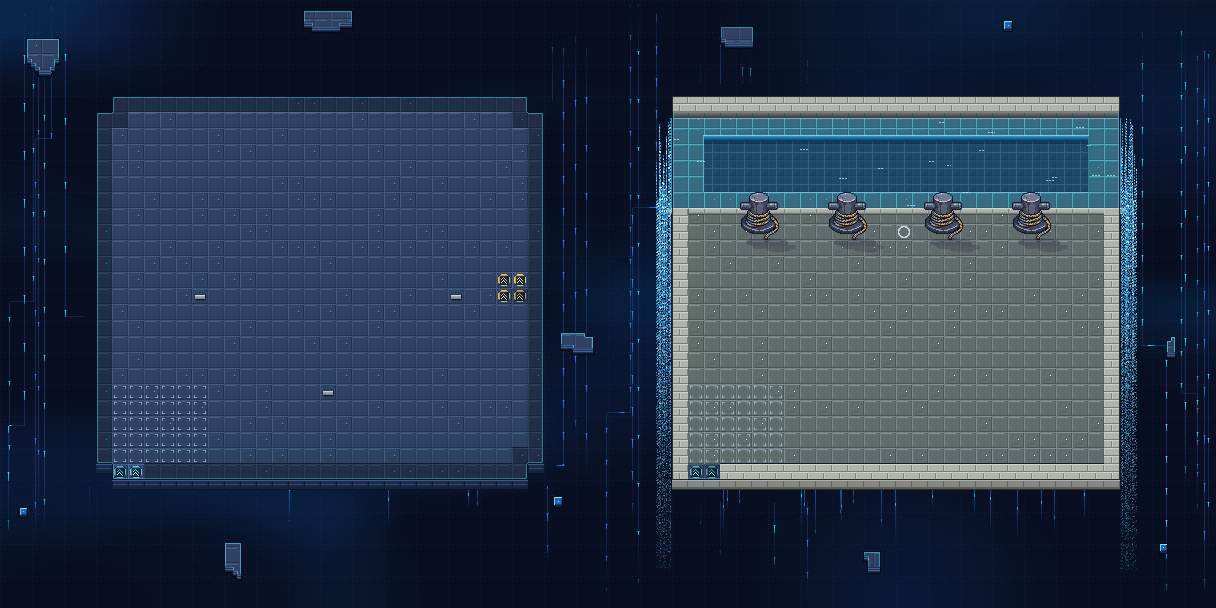
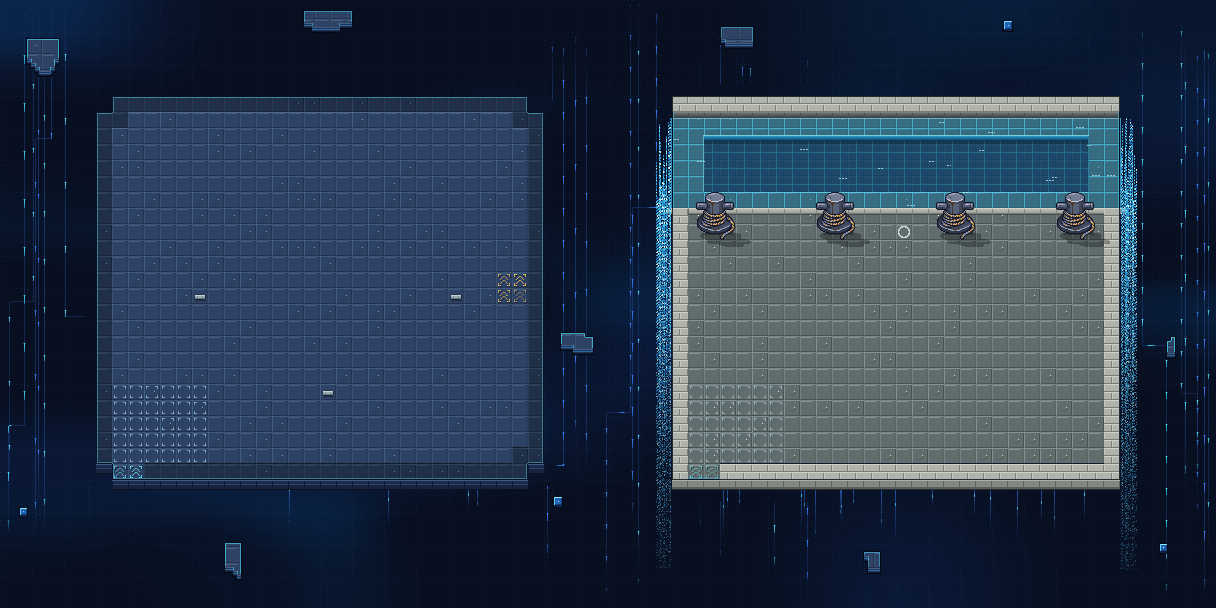
Karte 19: Pfeile im Stil des Sammelplatzes (Eckklammern + Doppel-Chevron auf dem Boden, cyan/gold), Poller weiter und gleichmaessig verteilt, eigener Schatten (Kontaktschatten am Sockel, gestauchte Silhouette nach rechts unten)
Claude-Session: https://claude.ai/code/session_01SaoYHKhnro4LFcPJqjaPsq

diff --git a/tools/karte19_bauen.py b/tools/karte19_bauen.py
@@ -517,6 +517,59 @@ def fall_speier(a, wasser, land, frame):
 FALL_STILE = {}
 
 
+def pfeil_marke(a, tx, ty, farbe, frame, ph):
+    """Pfeilfeld passend zum Aufstellfeld: vier Eckklammern (wie feld_marken) und ein Doppel-Chevron nach Norden,
+    beides direkt auf dem Boden, 1 px dunkler Schlagschatten rechts unten, Leuchten pulsiert."""
+    p = 0.55 + 0.45 * puls(frame, ph)
+    farbe = np.array(farbe, np.float32)
+    X, Y = tx * T, ty * T
+    pix = []
+    for (ex, ey, sx, sy) in ((2, 2, 1, 1), (13, 2, -1, 1), (2, 13, 1, -1), (13, 13, -1, -1)):
+        for d in range(3):
+            pix += [(Y + ey, X + ex + sx * d), (Y + ey + sy * d, X + ex)]
+    for oy in (4, 8):                                           # zwei Chevrons uebereinander
+        for d in range(4):
+            pix += [(Y + oy + d, X + 7 - d), (Y + oy + d, X + 8 + d)]
+    for (yy, xx) in pix:                                        # Schatten zuerst
+        a[yy + 1, xx + 1] = (a[yy + 1, xx + 1] * 0.75).astype(np.uint8)
+    for (yy, xx) in pix:
+        a[yy, xx] = np.clip(a[yy, xx] * (1 - 0.8 * p) + farbe * 0.8 * p, 0, 255).astype(np.uint8)
+
+
+def schatten19(img, objs, cache, boden):
+    """Schatten nach den Regeln: Kontaktschatten direkt am Fuss (folgt der echten Fussform), Schlagschatten = die
+    Silhouette diagonal nach rechts unten gelegt und auf die Haelfte gestaucht; nur auf dem Boden der Fussebene."""
+    a = np.array(img).astype(np.float32)
+    Hp, Wp = boden.shape
+    kontakt = np.zeros((Hp, Wp), bool)
+    wurf = np.zeros((Hp, Wp), bool)
+    for o in objs:
+        m = np.array(cache[o['datei']].getchannel('A')) >= 128
+        zeilen = np.nonzero(m.any(axis=1))[0]
+        breite = m.sum(axis=1)
+        zu = int(max(r for r in zeilen if breite[r] >= 0.45 * breite.max()))   # Unterkante des Sockels (nicht Seilende)
+        for r in zeilen:
+            k = max(0, zu - r)                                    # Hoehe ueber dem Fuss
+            xs = np.nonzero(m[r])[0]
+            ty = o['y'] + zu + int(round(k * 0.30))
+            tx = o['x'] + xs + int(round(k * 0.45)) + 1
+            ok = (tx >= 0) & (tx < Wp) & (0 <= ty < Hp)
+            if 0 <= ty < Hp:
+                wurf[ty, tx[ok]] = True
+        fuss = m[max(0, zu - 2):zu + 1].any(axis=0)
+        xs = np.nonzero(fuss)[0]
+        for dy in (0, 1):
+            Y = o['y'] + zu + dy
+            if 0 <= Y < Hp:
+                kontakt[Y, o['x'] + xs.min() + dy:o['x'] + xs.max() + 2] = True
+    wurf = np.array(Image.fromarray((wurf * 255).astype(np.uint8)).filter(ImageFilter.MaxFilter(3))) > 0
+    wurf &= boden & ~kontakt
+    kontakt &= boden
+    a[wurf, :3] *= 0.72
+    a[kontakt, :3] *= 0.55
+    return Image.fromarray(np.clip(a, 0, 255).astype(np.uint8))
+
+
 def kaikante(a, kai, wasser=None):
     """Kaikante: heller Stein an jeder Wasserseite des Pflasters (6 px breit, Licht zur Wasserseite, Fugen alle
     16 px, Schatten zum Pflaster). Laeuft auch an den Kanaelen entlang (Kanal-Variante)."""
@@ -647,16 +700,14 @@ def bauen(frame=None, speichern=True):
     a = WASSER_STILE[WASSER](a, wasser, frame)
     sch = wasser & (np.roll(ring, 2, 1) | np.roll(ring, 1, 1))     # Westmauer: Schatten aufs Wasser (Licht oben links)
     a[sch] = (a[sch] * 0.75).astype(np.uint8)
-    # Pfeilkacheln
-    pf = k16.kachel('pfeil.png').astype(np.float32)
-    gp = k17.gold_pfeil()
+    # Pfeile im Stil des Sammelplatzes (Nutzerwunsch): keine dunkle Kachel, sondern Eckklammern wie beim
+    # Aufstellfeld plus ein Doppelpfeil direkt auf dem Boden; cyan = Ankunft, gold = weiter. Leuchten nacheinander.
     n = 0
     for y in range(rows):
         for x in range(cols):
             if kl[y, x] in 'zg':
-                q = puls(frame, n * 0.25); n += 1
-                src = pf if kl[y, x] == 'z' else gp
-                a[y * T:(y + 1) * T, x * T:(x + 1) * T] = np.clip(src * (0.9 + 0.25 * q), 0, 255).astype(np.uint8)
+                pfeil_marke(a, x, y, (110, 225, 250) if kl[y, x] == 'z' else (250, 200, 90), frame, n * 0.25)
+                n += 1
     # ------------------------------------------------------------------ Kanten, Front, Leere
     front = k16.front_und_faeden(a, land, frame)
     ak = kontur(land)
@@ -688,7 +739,7 @@ def bauen(frame=None, speichern=True):
                       key=lambda o: o['y'] + o['fuss'])
         if objs:
             cache = {o['datei']: Image.open(os.path.join(OBJ, o['datei'])).convert('RGBA') for o in objs}
-            k8.schatten_ebene(img, objs, cache, lvl)
+            img = schatten19(img, objs, cache, lvl == 2)
             vor = np.array(img)
             k4.objekte_zeichnen(img, objs, cache, np.zeros((Hp, Wp), bool), frame)
             img = img.copy()

diff --git a/tools/karte19_objekte.py b/tools/karte19_objekte.py
@@ -20,7 +20,7 @@ RX, RY = 42, 6                                   # linke obere Ecke des Hafenrau
 MITTE = (RX + 14) * T                            # Raumachse (x = 896 px)
 KAI = RY + 8                                     # Fussreihe: erste Pflasterreihe hinter der Kaikante (Sockel ganz auf Stein)
 # (Quelle, Mitte x in px, Fussreihe, Animation)
-OBJEKTE = [('hafen/poller', MITTE + dx, KAI, None) for dx in (-136, -48, 48, 136)]
+OBJEKTE = [('hafen/poller', MITTE + dx, KAI, None) for dx in (-180, -60, 60, 180)]   # gleiche Abstaende (120 px), symmetrisch
 
 
 def main():
